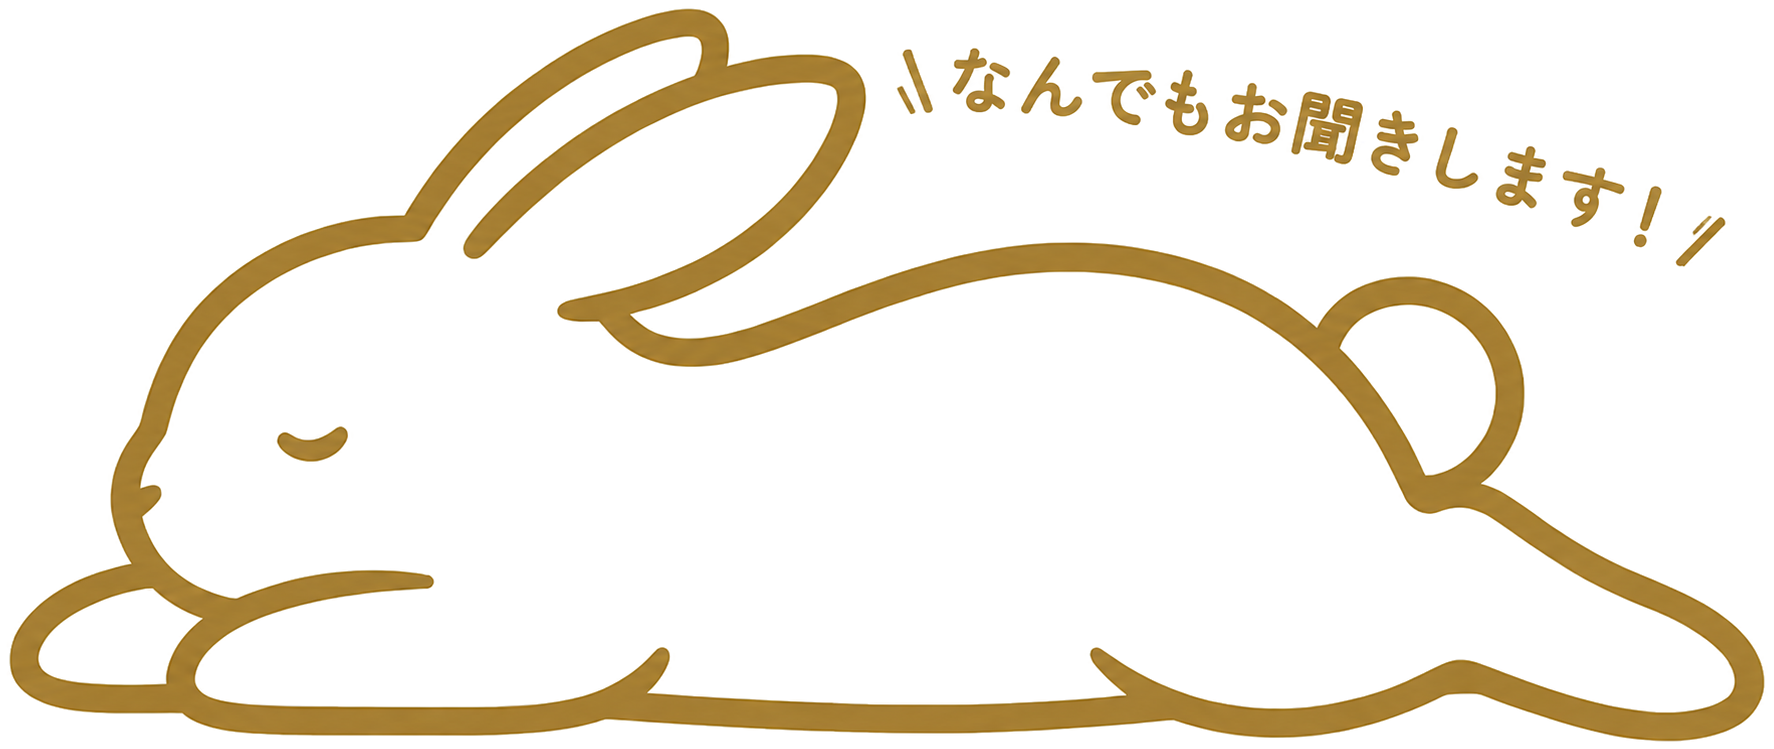
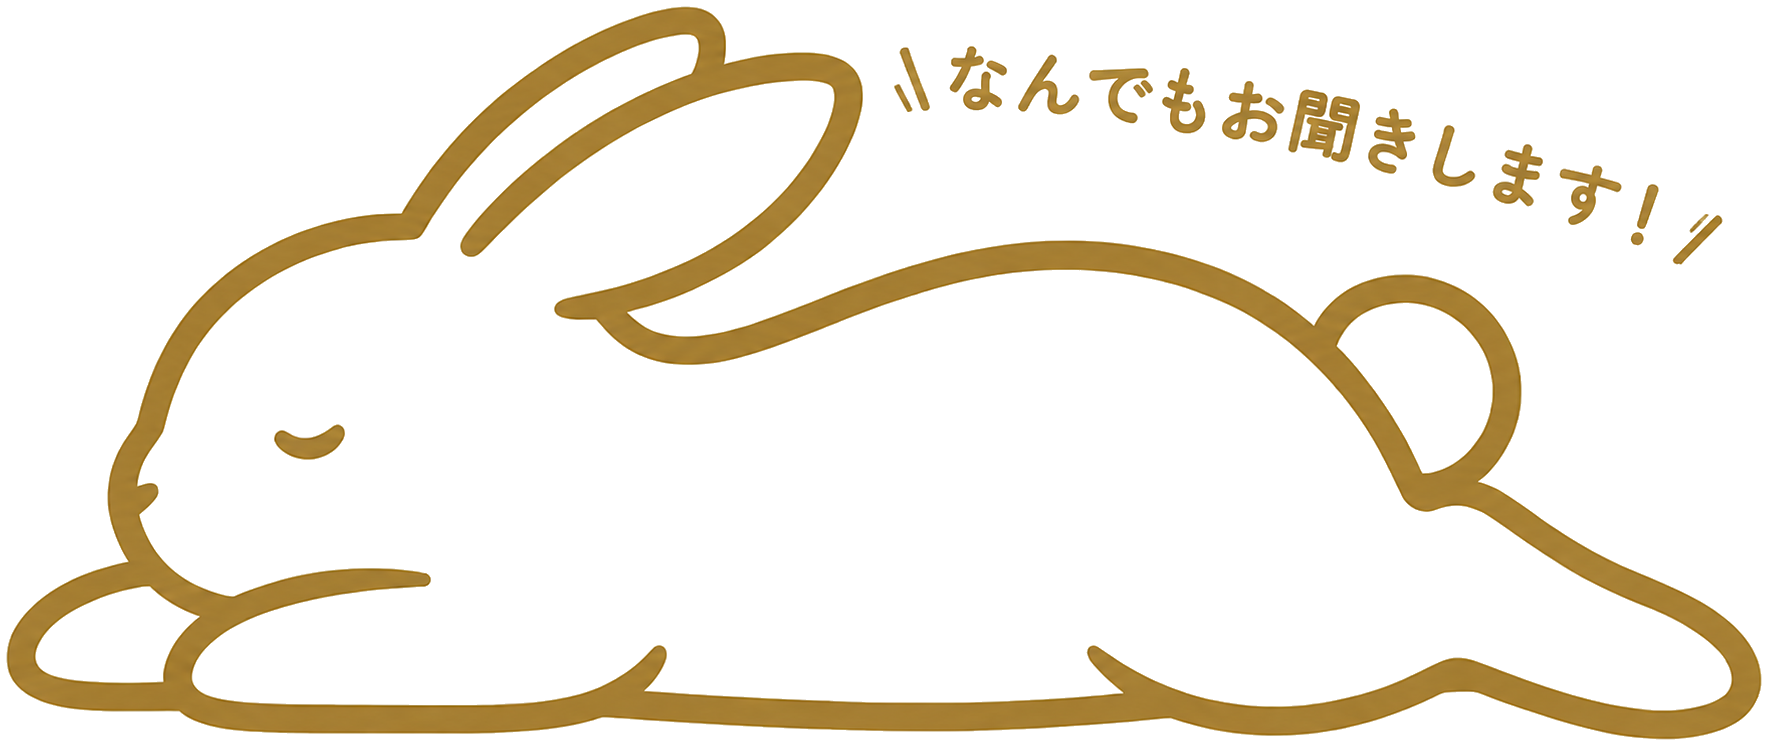
Auto-commit: update 2026-08-02 21:05:16

diff --git a/components/ui/CursorFollowHint.tsx b/components/ui/CursorFollowHint.tsx
@@ -33,10 +33,10 @@ export function CursorFollowHint({
         <Image
           src="/cursors/rabbit-ask.png"
           alt=""
-          width={1774}
-          height={749}
+          width={1767}
+          height={745}
           priority
-          className="pointer-events-none absolute z-50 w-44 max-w-none -translate-x-1/2 -translate-y-1/2 select-none sm:w-56"
+          className="pointer-events-none absolute z-50 w-[59px] max-w-none -translate-x-1/2 -translate-y-1/2 select-none sm:w-[75px]"
           style={{ left: pos.x, top: pos.y }}
         />
       )}
